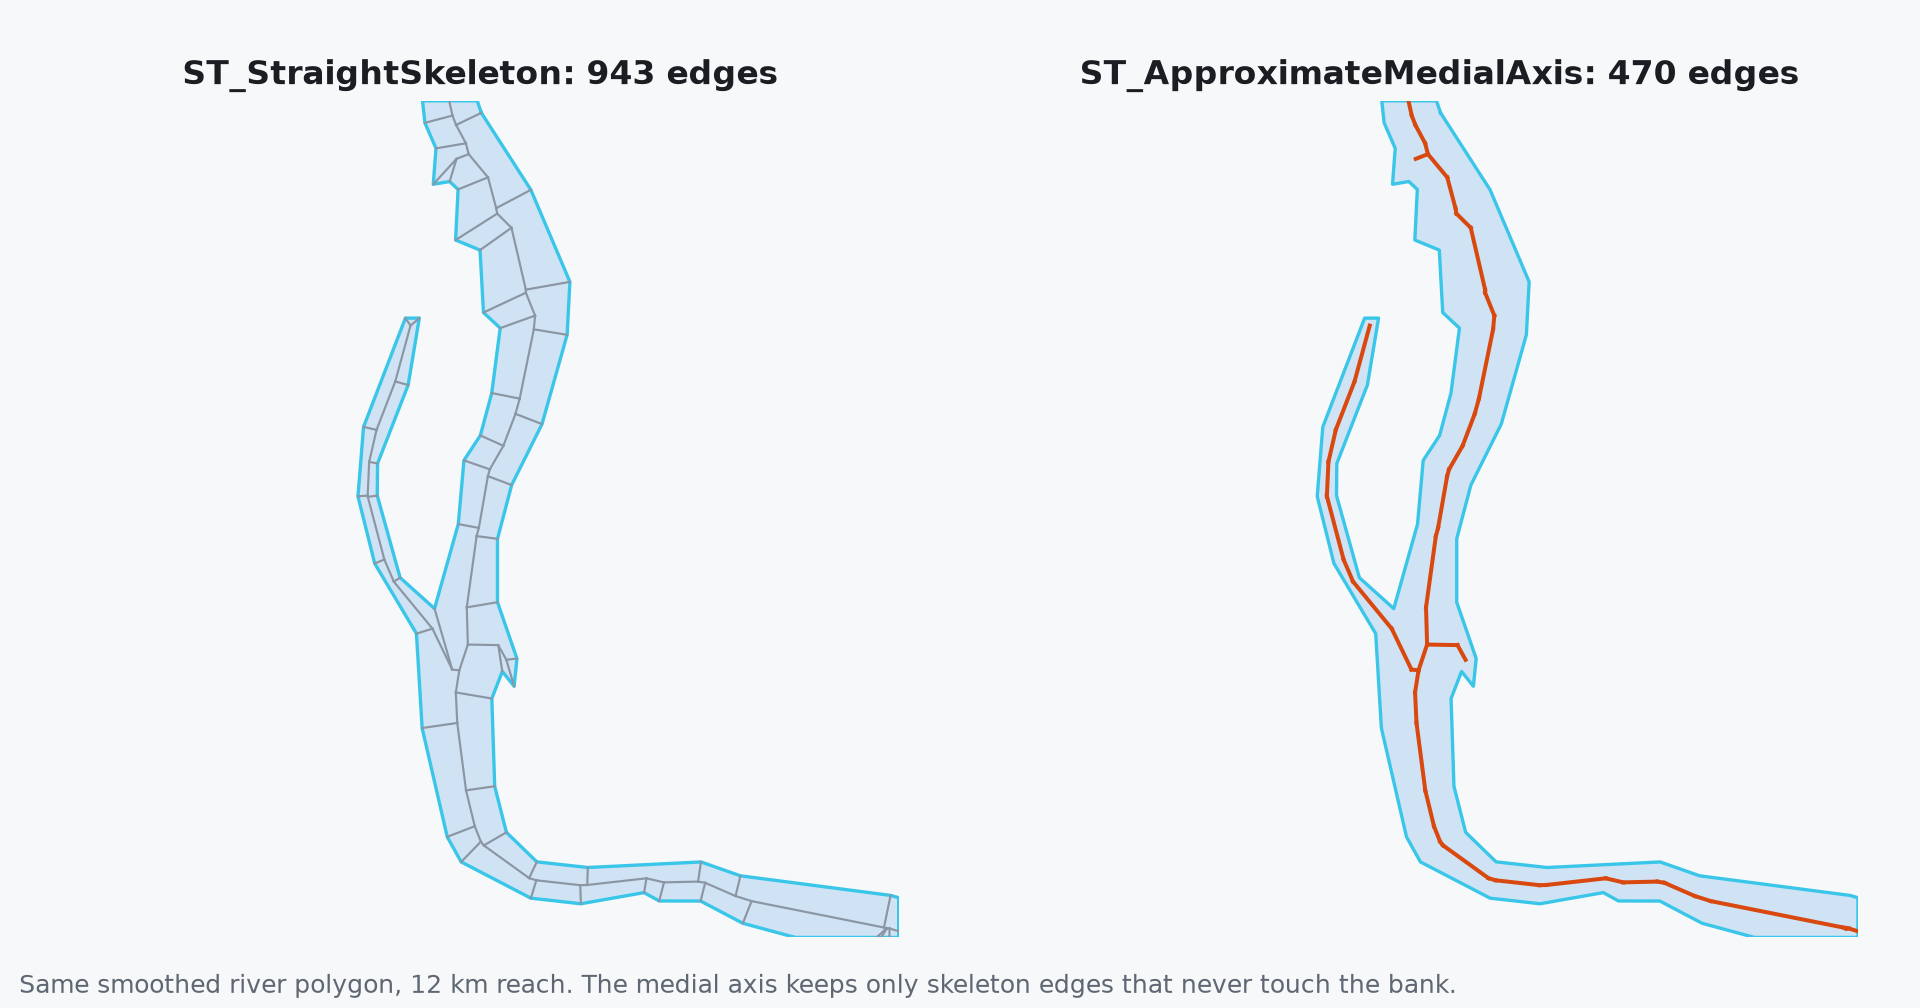
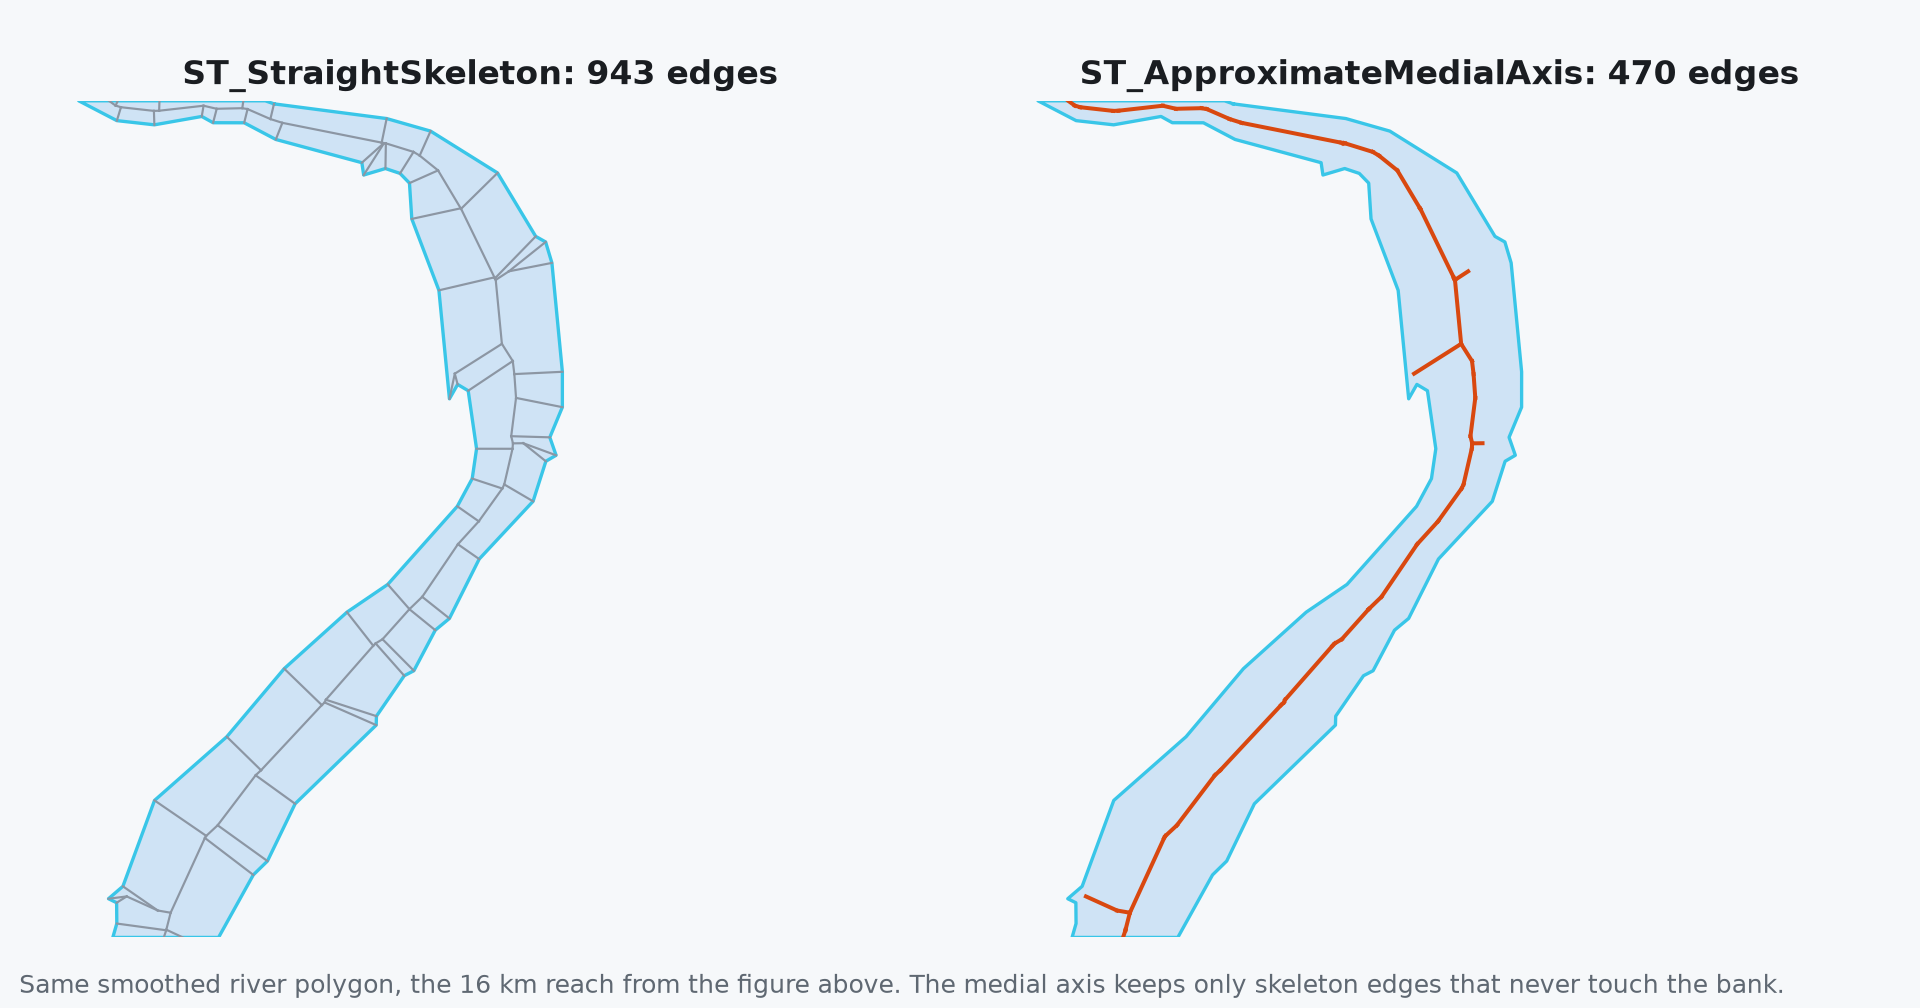
[DOCS] Use the same reach for the skeleton comparison figure

Changed region(s): [[0.0312, 0.0923, 0.9688, 0.9841]]

diff --git a/docs/blog/posts/mississippi-centerline.md b/docs/blog/posts/mississippi-centerline.md
@@ -141,7 +141,7 @@ SELECT channel, ST_LineMerge(ST_ApproximateMedialAxis(channel)) AS axis FROM cle
 
 Under the hood, `ST_ApproximateMedialAxis` is built on [`ST_StraightSkeleton`](https://sedona.apache.org/latest/api/sql/Geometry-Processing/ST_StraightSkeleton/), which shrinks every edge of the polygon inward at the same speed and records where the edges meet. On this channel the straight skeleton has 943 edges and 437.7 km of line: ribs run from every bend in the bank to the spine. The medial axis keeps the 470 edges that never touch the bank. Call `ST_StraightSkeleton` directly when the ribs are the point, as in roof modeling or polygon offsetting.
 
-![Two panels of the same 12 km river reach: the straight skeleton with 943 grey edges, ribs fanning from every bank vertex to the spine, and the medial axis with 470 orange edges along the spine only](mississippi-centerline-skeleton.png)
+![Two panels of the same 16 km river reach as the figure above: the straight skeleton with 943 grey edges, ribs fanning from every bank vertex to the spine, and the medial axis with 470 orange edges along the spine only](mississippi-centerline-skeleton.png)
 
 ![Three panels over satellite imagery of a 22 km reach: wet pixels vectorized as a cyan polygon; the smoothed channel outline with the raw skeleton forking around a sandbar; the pruned centerline in orange with white width ticks every 2 km](mississippi-centerline-steps.png)
 
